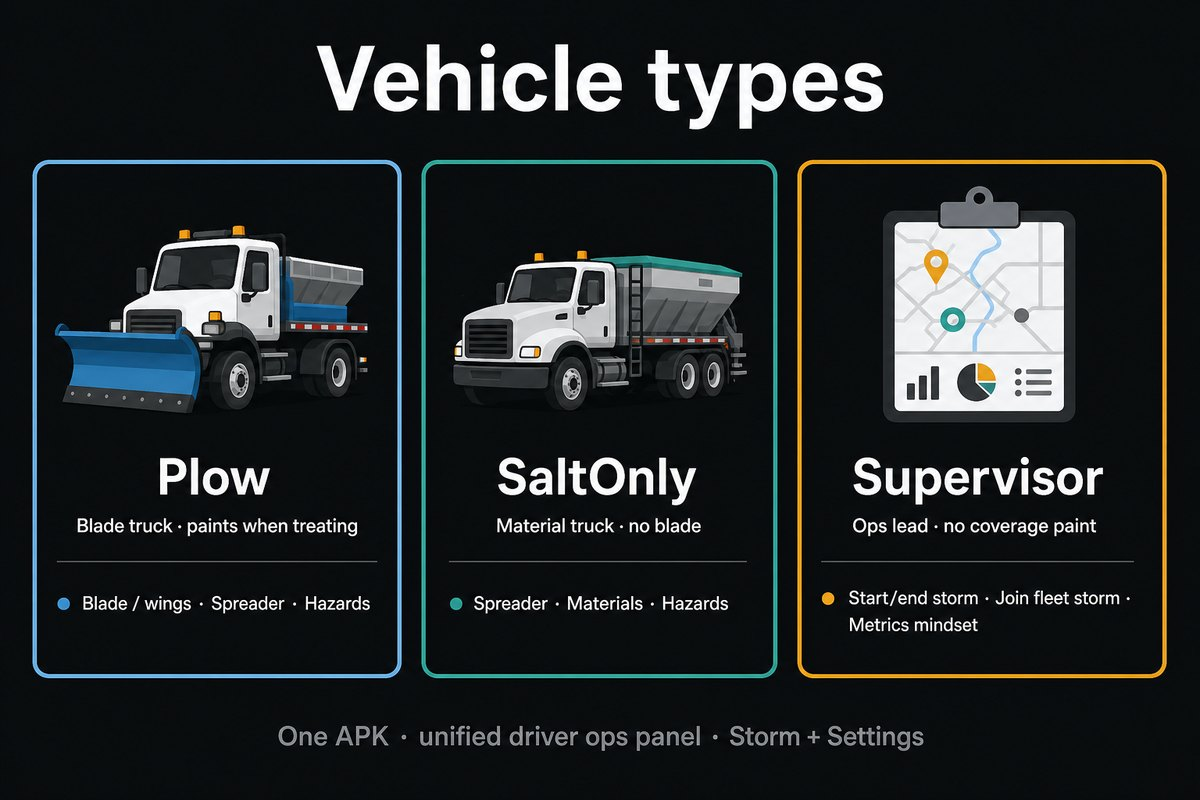
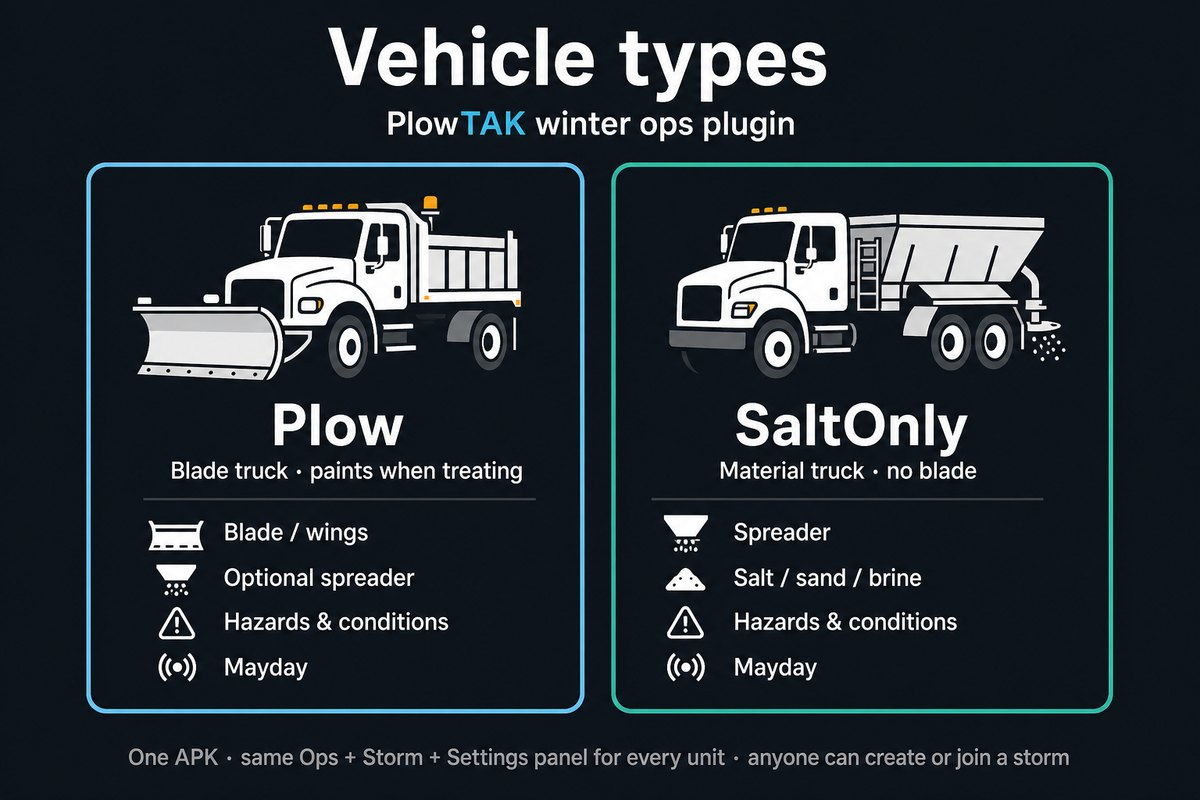
Drop supervisor/observer from roles graphic, docs, and setup UI.

Changed region(s): [[0.0, 0.0312, 0.9867, 0.9688]]

diff --git a/docs/ops-guide.md b/docs/ops-guide.md
@@ -40,21 +40,8 @@ determines what the operator sees and can do.
 - Equipment toggles: **Spreader On/Off** and material type — no blade control.
 - Same distress / hazard / condition tools as Plow (including QuickPic long-press).
 
-### 2.3 Supervisor (ops lead)
-
-- Publishes presence (non-treating) — never paints coverage.
-- Fleet list, overdue-segment view, alert acknowledge, **storm session start/end**,
-  cycle-time / priority settings, special zones, tasking, route assignment, export,
-  live metrics.
-- **Long-press a fleet truck** → Task / Assign route / Clear route. Assigned route
-  ids appear in the fleet list. Tasks also ping the target via GeoChat when the
-  contact is known.
-
-### 2.4 Observer (responders, traffic control, EOC)
-
-- Optional presence marker (configurable).
-- Sees live coverage, fleet status, hazards, and alerts — **no treat controls**.
-- Observer labels (Fire / EMS / Traffic / EOC) set in vehicle setup.
+There is **no separate supervisor or observer role**. Every unit uses the same
+Ops panel; **Storm** (create / join / leave / end) is available to all.
 
 ## 3. Reading the coverage map
 
@@ -71,17 +58,18 @@ determines what the operator sees and can do.
 Multiple agencies may start concurrent storms on the same mesh. PlowTAK **does
 not auto-join** remote storms — each device picks what it reports into.
 
-### Supervisor — start a storm
-1. Open PlowTAK → **Start storm session**.
-2. Enter **Agency** (e.g. VDOT) and a **designator** (e.g. I-81 North).
-3. Optional: **Mission override** (otherwise `plowtak-coverage-{stormId}`).
-4. Confirm the **Data Sync server** (button in the dialog or on the panel).
-   Uploads go to that one selected TAK server (not fan-out to every connection).
+### Start a storm
+1. Open PlowTAK → **Storm**.
+2. Confirm the **Data Sync server**, enter **Agency** and a **designator**.
+3. Optional: mission name override (otherwise derived from the storm label /
+   `plowtak-coverage-{stormId}`).
+4. Create — PlowTAK creates the Marti mission and announces the storm.
 
-### Every role — join a storm
-Use **Join / pick storm** (supervisor) or **Join storm** (driver / observer).
-Heard storms appear as `Agency · Designator · id`. Leave a storm to stop
-reporting without ending it for others.
+### Join a storm
+Use **Storm** → pick a heard storm (`Agency · Designator · id`) or mission from
+the server list. Leave a storm to stop reporting without ending it for others.
+**End** ends the storm for the fleet; the Data Sync mission remains on the
+server until an admin removes it.
 
 ### Coverage sharing
 - **Live CoT** — PLI, distress, and storm announce stay on the mesh.
@@ -95,7 +83,7 @@ reporting without ending it for others.
 ## 5. Distress alerts
 
 One tap sends a Mayday with your location, vehicle type, and last equipment state to
-the fleet. Supervisors see an alert list and map pulse. TTS can announce nearby
+the fleet. Peers see the alert on the map. TTS can announce nearby
 distress when enabled.
 
 > Distress is a situational-awareness assist, **not** a substitute for radio/911 SOP.

diff --git a/README.md b/README.md
@@ -92,10 +92,10 @@ One APK. Pick type in **Settings** (first run / Vehicle setup):
 |------|-----|---------------|-----------------|-----------|
 | **Plow** | Blade truck (± spreader) | Yes | Yes, when treating | Blade / wings; salt if equipped |
 | **SaltOnly** | Spreader / brine, no blade | Yes | Yes, when material on | Spreader + material |
-| **Supervisor** | Ops lead | Yes (non-treating) | No | Storm create/end; same join/leave |
 
-Anyone on the mesh can **join** a storm. Create/end is for storm managers.
-(Legacy “Observer” in older prefs is treated like supervisor.)
+Every unit uses the same **Ops · Storm · Settings** panels. Any device can
+**create, join, leave, or end** a storm — there is no separate supervisor or
+observer role.
 
 ---
 
